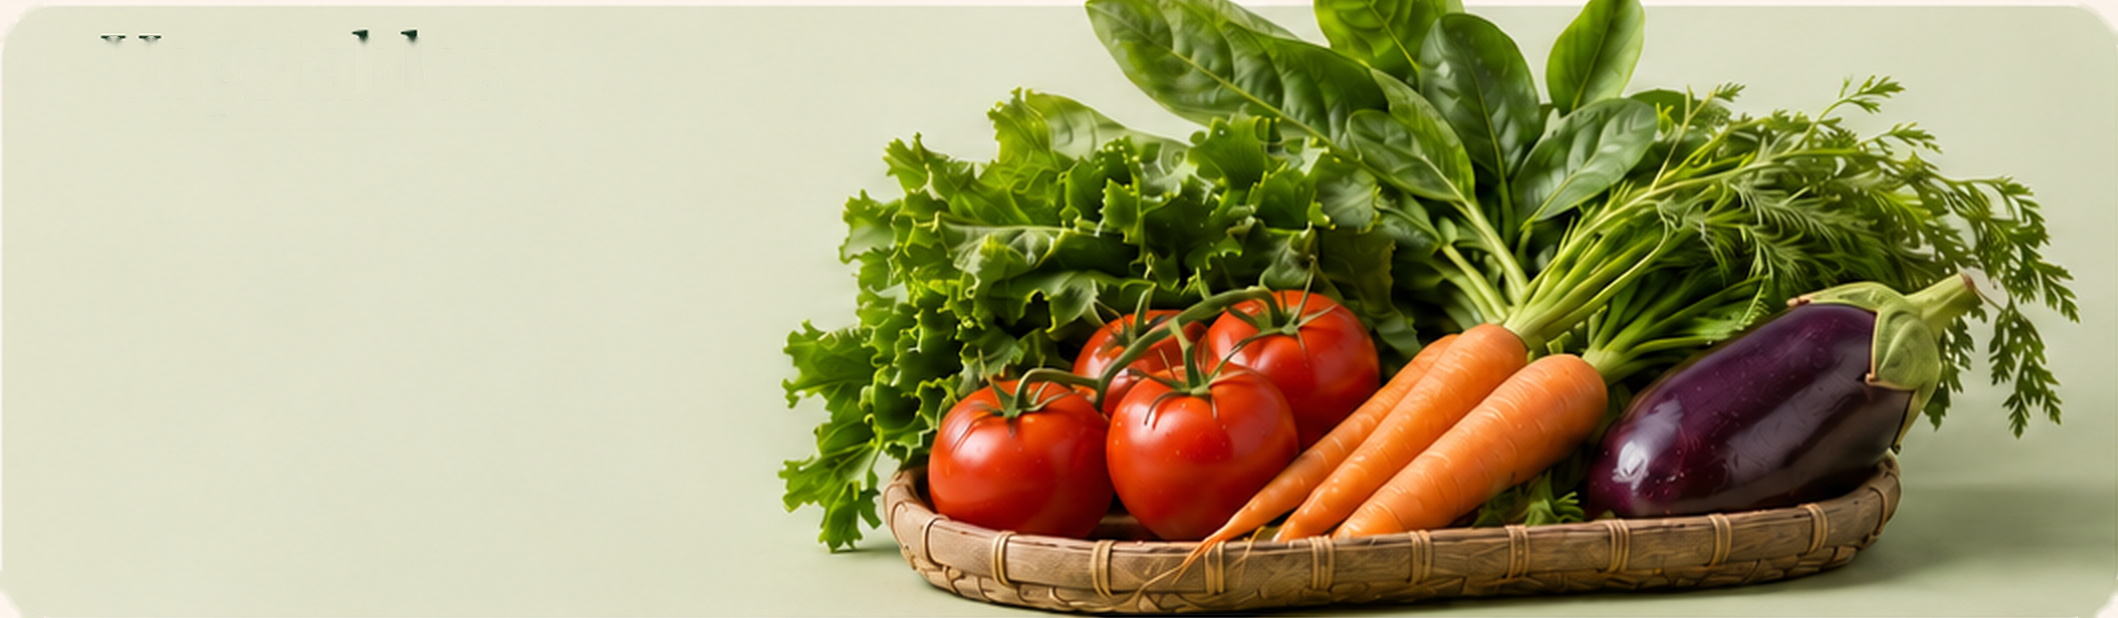
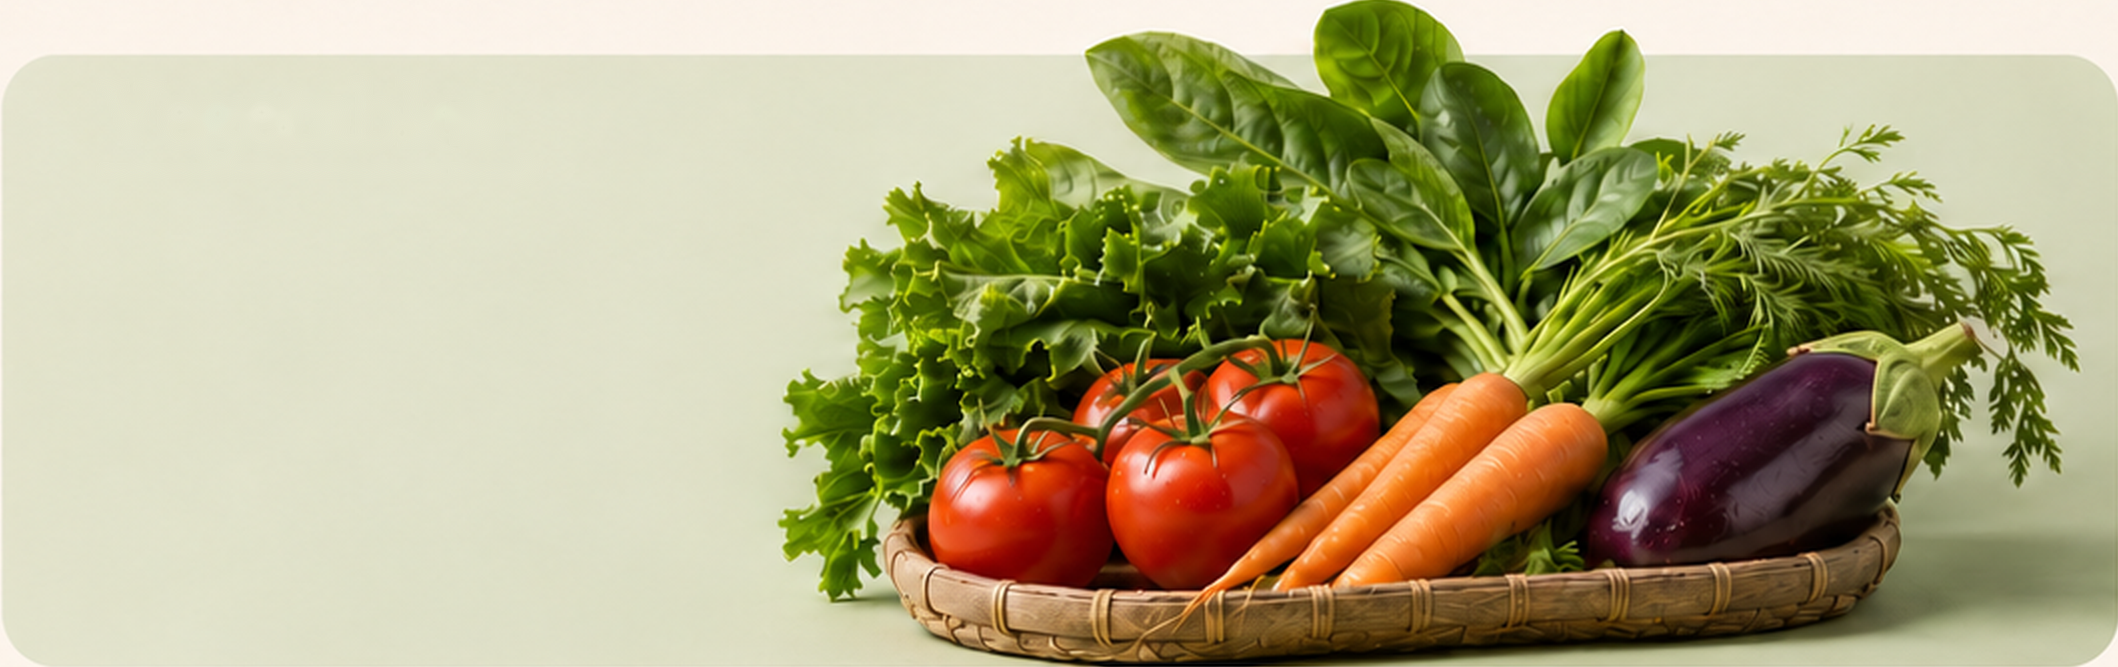
feat(everyday-goodness): pop vegetable leaves outside card, remove white background framing, and render live code text

diff --git a/src/components/HarvestCategoryGrid.tsx b/src/components/HarvestCategoryGrid.tsx
@@ -1172,40 +1172,42 @@ export default function HarvestCategoryGrid() {
                 </button>
               </div>
 
-              {/* Everyday Goodness: Pure Single Image Banner ("Only Image") */}
-              <div className="w-full relative rounded-2xl sm:rounded-3xl overflow-hidden shadow-xs hover:shadow-lg transition-all duration-300 border border-[#16301d]/[0.07] bg-[#faf5ea] group">
-                <picture>
-                  <source srcSet="/images/collections/everyday-goodness-plate.webp" type="image/webp" />
-                  <img
-                    src="/images/collections/everyday-goodness-plate.png"
-                    alt="Everyday Goodness - Dairy, Vegetables, and Fruits"
-                    className="w-full h-auto object-cover select-none pointer-events-none transition-transform duration-700 ease-out group-hover:scale-[1.01]"
-                    loading="eager"
-                    decoding="async"
-                  />
-                </picture>
+              {/* Collection Grid: 3 Clean Photographic Cards (Zero White Layout Background) */}
+              <div className="collection-grid grid grid-cols-1 lg:grid-cols-[1224fr_2118fr] lg:grid-rows-2 gap-3 sm:gap-4 lg:gap-5 w-full aspect-auto lg:aspect-[3342/1258]">
+                {everydayGoodness.collections.map((collection, index) => {
+                  const isMilk = index === 0;
+                  const isVeg = index === 1;
 
-                {/* Interactive Category Hit Zones (Seamless responsive overlays for Milk, Veg, Fruit) */}
-                <div className="absolute inset-0 grid grid-cols-1 lg:grid-cols-[1224fr_2118fr] lg:grid-rows-2">
-                  <Link
-                    href="/milk"
-                    aria-label="Open Milk Collection"
-                    className="lg:col-start-1 lg:row-start-1 lg:row-span-2 cursor-pointer z-10"
-                    title="Milk Collection"
-                  />
-                  <Link
-                    href="/vegetables"
-                    aria-label="Open Vegetables Collection"
-                    className="lg:col-start-2 lg:row-start-1 cursor-pointer z-10"
-                    title="Vegetables Collection"
-                  />
-                  <Link
-                    href="/fruits"
-                    aria-label="Open Fruits Collection"
-                    className="lg:col-start-2 lg:row-start-2 cursor-pointer z-10"
-                    title="Fruits Collection"
-                  />
-                </div>
+                  return (
+                    <Link
+                      href={collection.href}
+                      className={`collection-card group relative rounded-2xl sm:rounded-3xl shadow-xs hover:shadow-xl transition-all duration-300 cursor-pointer block border border-[#16301d]/[0.07] bg-[#faf5ea] ${
+                        isMilk
+                          ? "lg:col-start-1 lg:row-start-1 lg:row-span-2 aspect-[1224/1258] lg:aspect-auto h-full overflow-hidden"
+                          : isVeg
+                          ? "lg:col-start-2 lg:row-start-1 aspect-[2118/667] lg:aspect-auto h-full overflow-visible"
+                          : "lg:col-start-2 lg:row-start-2 aspect-[2118/605] lg:aspect-auto h-full overflow-hidden"
+                      }`}
+                      key={collection.title}
+                    >
+                      {/* Decoupled Clean Photography (Zero text baked in; Veg has leaves popping outside) */}
+                      <img
+                        src={collection.image}
+                        alt={collection.title}
+                        className={`w-full h-full object-cover transition-transform duration-500 ease-out group-hover:scale-[1.02] ${
+                          isVeg ? "rounded-b-2xl sm:rounded-b-3xl" : "rounded-2xl sm:rounded-3xl"
+                        }`}
+                        loading="eager"
+                        decoding="async"
+                      />
+
+                      {/* Live HTML Text from Code: <span>{collection.title} →</span> */}
+                      <span className="absolute top-4 sm:top-5 lg:top-7 left-4 sm:left-5 lg:left-7 z-10 font-playfair text-2xl sm:text-3xl lg:text-4xl text-[#16301d] font-normal tracking-tight block leading-none drop-shadow-xs select-text">
+                        {collection.title} →
+                      </span>
+                    </Link>
+                  );
+                })}
               </div>
             </div>
           ) : (
